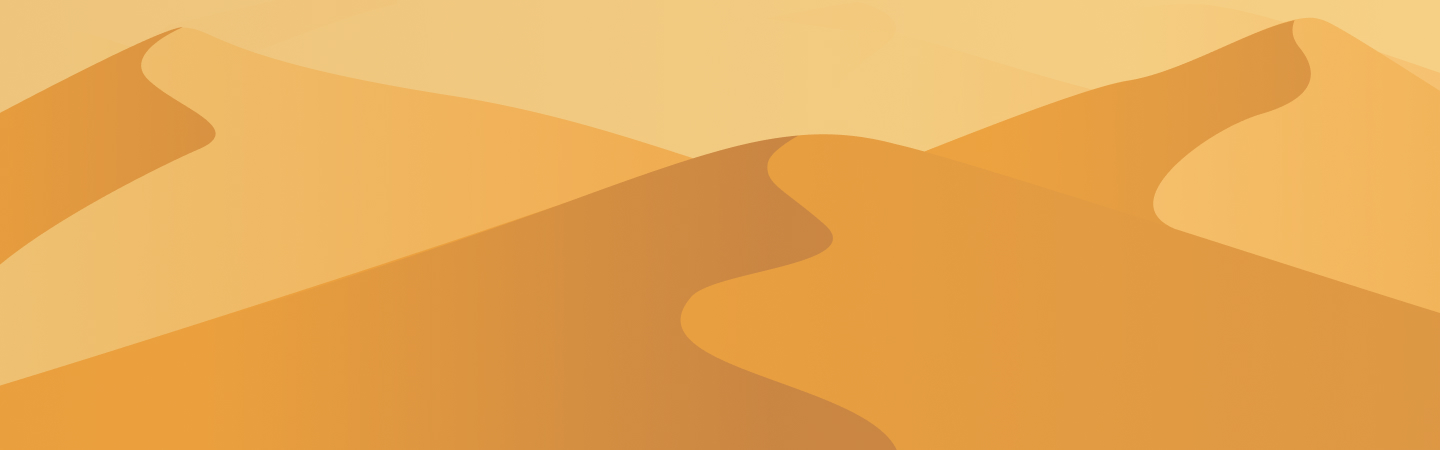
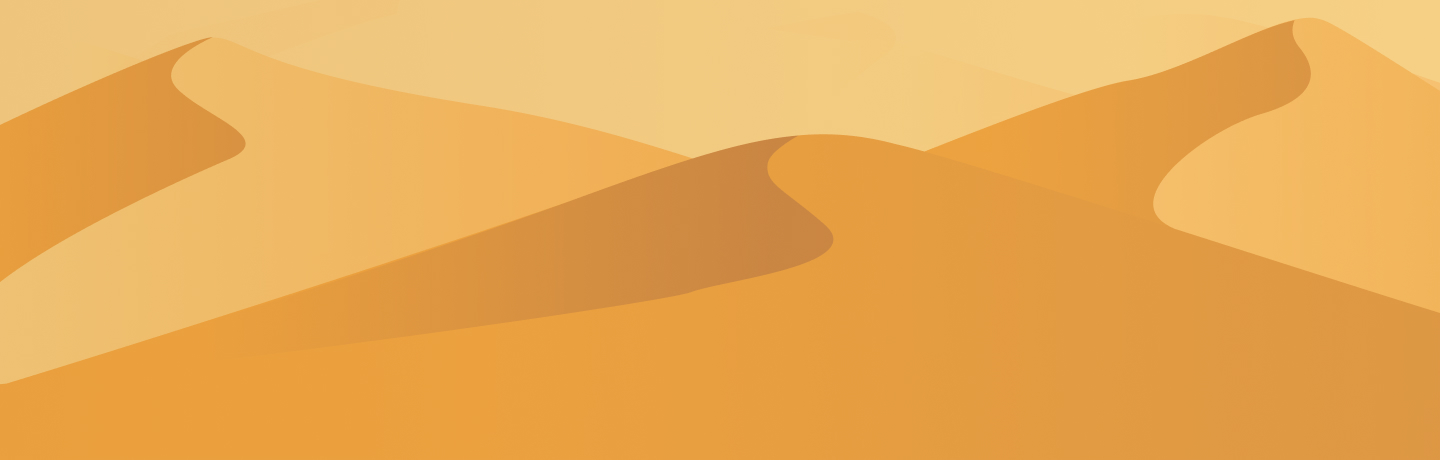
Fix on sand bg

diff --git a/assets/sass/layout/_video.scss b/assets/sass/layout/_video.scss
@@ -2,13 +2,13 @@
 @use '../config/colors';
 @use '../config/sizes';
 
-.video {
-  &.sand-bg {
-    background-image: url('../../assets/img/bg/sand.jpg'), linear-gradient(293.08deg, #DE9845 29.88%, #EFA542 100%);
-    background-size: 100%;
-    background-repeat: no-repeat;
-  }
+.sand-bg {
+  background-image: url('../../assets/img/bg/sand.jpg'), linear-gradient(90.18deg, #EBA03F 0.08%, #ECA13F 37.26%, #DD9844 99.76%);;
+  background-size: 100%;
+  background-repeat: no-repeat;
+}
 
+.video {
   .wrapper {
     .text-container {
       padding-top: sizes.$l;

diff --git a/dist/css/website.css b/dist/css/website.css
@@ -284,11 +284,12 @@ footer .wrapper .social-networks-container ul li:first-child {
   opacity: 0.8;
 }
 
-.video.sand-bg {
-  background-image: url("../../assets/img/bg/sand.jpg"), linear-gradient(293.08deg, #DE9845 29.88%, #EFA542 100%);
+.sand-bg {
+  background-image: url("../../assets/img/bg/sand.jpg"), linear-gradient(90.18deg, #EBA03F 0.08%, #ECA13F 37.26%, #DD9844 99.76%);
   background-size: 100%;
   background-repeat: no-repeat;
 }
+
 .video .wrapper .text-container {
   padding-top: 4rem;
 }

diff --git a/hormigaplateada.html b/hormigaplateada.html
@@ -110,6 +110,13 @@
             </p>
           </div>
         </li>
+      </ul>
+    </div>
+  </section>
+  <!-- sand text -->
+  <section class="sand-bg">
+    <div class="wrapper">
+      <ul class="timeline">
         <li class="item">
           <div class="circle" id="three">
             <img src="assets/img/timeline/image-3.png" alt="Panorama de un desierto con dunas de arena"
